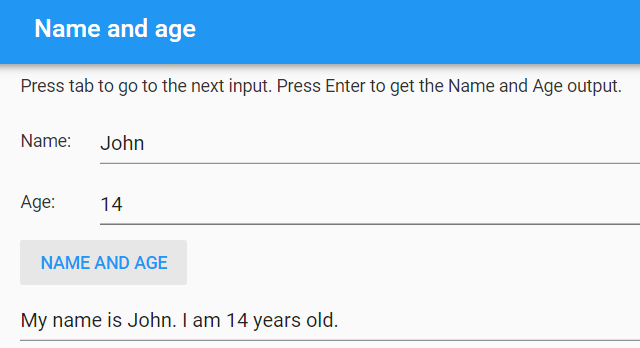
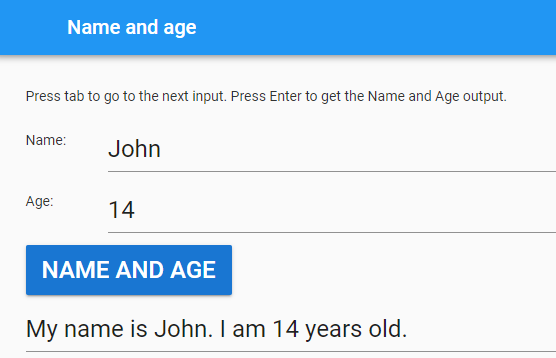
up

diff --git a/docs/Anvil/name_and_age.rst b/docs/Anvil/name_and_age.rst
@@ -40,6 +40,9 @@ Settings
 Build interface
 -------------------
 
+| Navigation from one textbox field to the next is automatic. Press TAB or SHIFT-TAB
+| Buttons are also navigated to using TAB. 
+
 Title
 ~~~~~~~~~~~~~~~~~~~
 
@@ -80,6 +83,7 @@ Name
 | Drag and drop a *TextBox* component onto the column panel to the right of the label.
 | Click and drag the divider between the label and textbox to resize them.
 | In the properties panel: name section, set the **name** to **name**.
+| In the properties panel: text section, set the **font_size** to 24.
 | In the properties panel: Events section, click on the blue icon to the right of the **pressed_enter** label.
 | This will add a default script, **name_pressed_enter**, to the code.
 
@@ -95,6 +99,7 @@ Age
 | Drag and drop a *TextBox* component onto the column panel to the right of the label.
 | Click and drag the divider between the label and textbox to resize them.
 | In the properties panel: name section, set the **name** to **age**.
+| In the properties panel: text section, set the **font_size** to 24.
 | In the properties panel: Events section, click on the blue icon to the right of the **pressed_enter** label.
 | This will add a default script, **age_pressed_enter**, to the code.
 
@@ -106,6 +111,8 @@ Name And Age button
 | Drag and drop a *Button* component onto the column panel to the right of the hailstone_start textbox.
 | In the properties panel: name section, set the **name** to **name_age**.
 | In the properties panel: text section, set the **text** to **Name and age**.
+| In the properties panel: text section, set the **font_size** to 24.
+| In the properties panel: appearance section, set the **role** to **primary-color**.
 | In the properties panel: Events section, click on the blue icon to the right of the **click** label.
 | This will add a default script, **name_age_click**, to the code. This will be coded later to generate the output.
 
